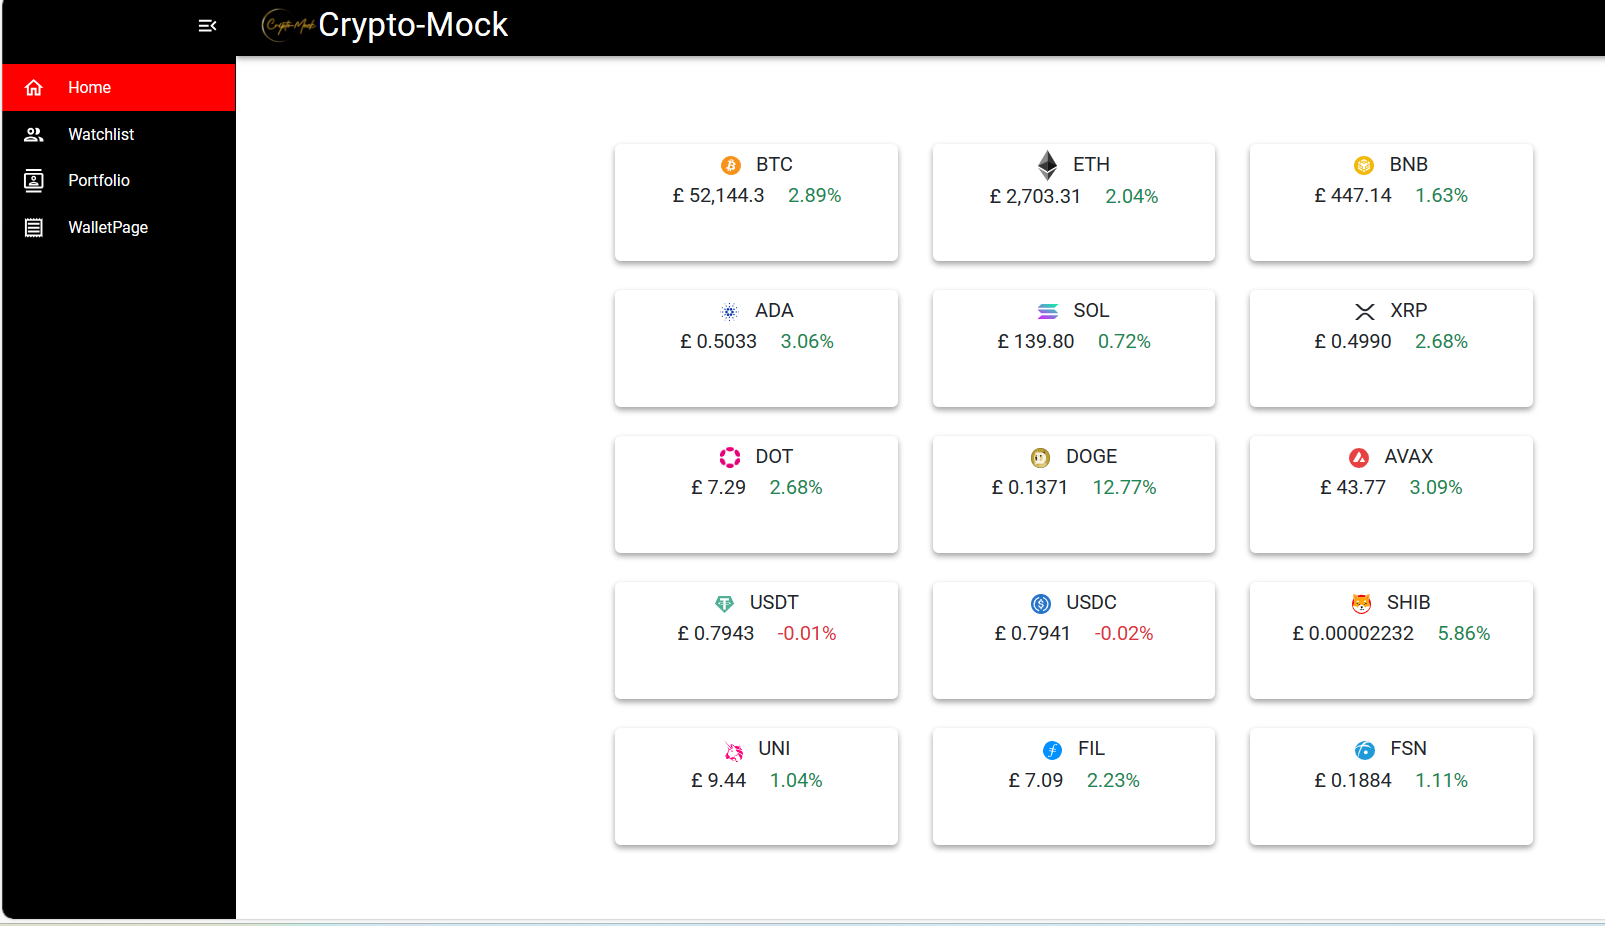
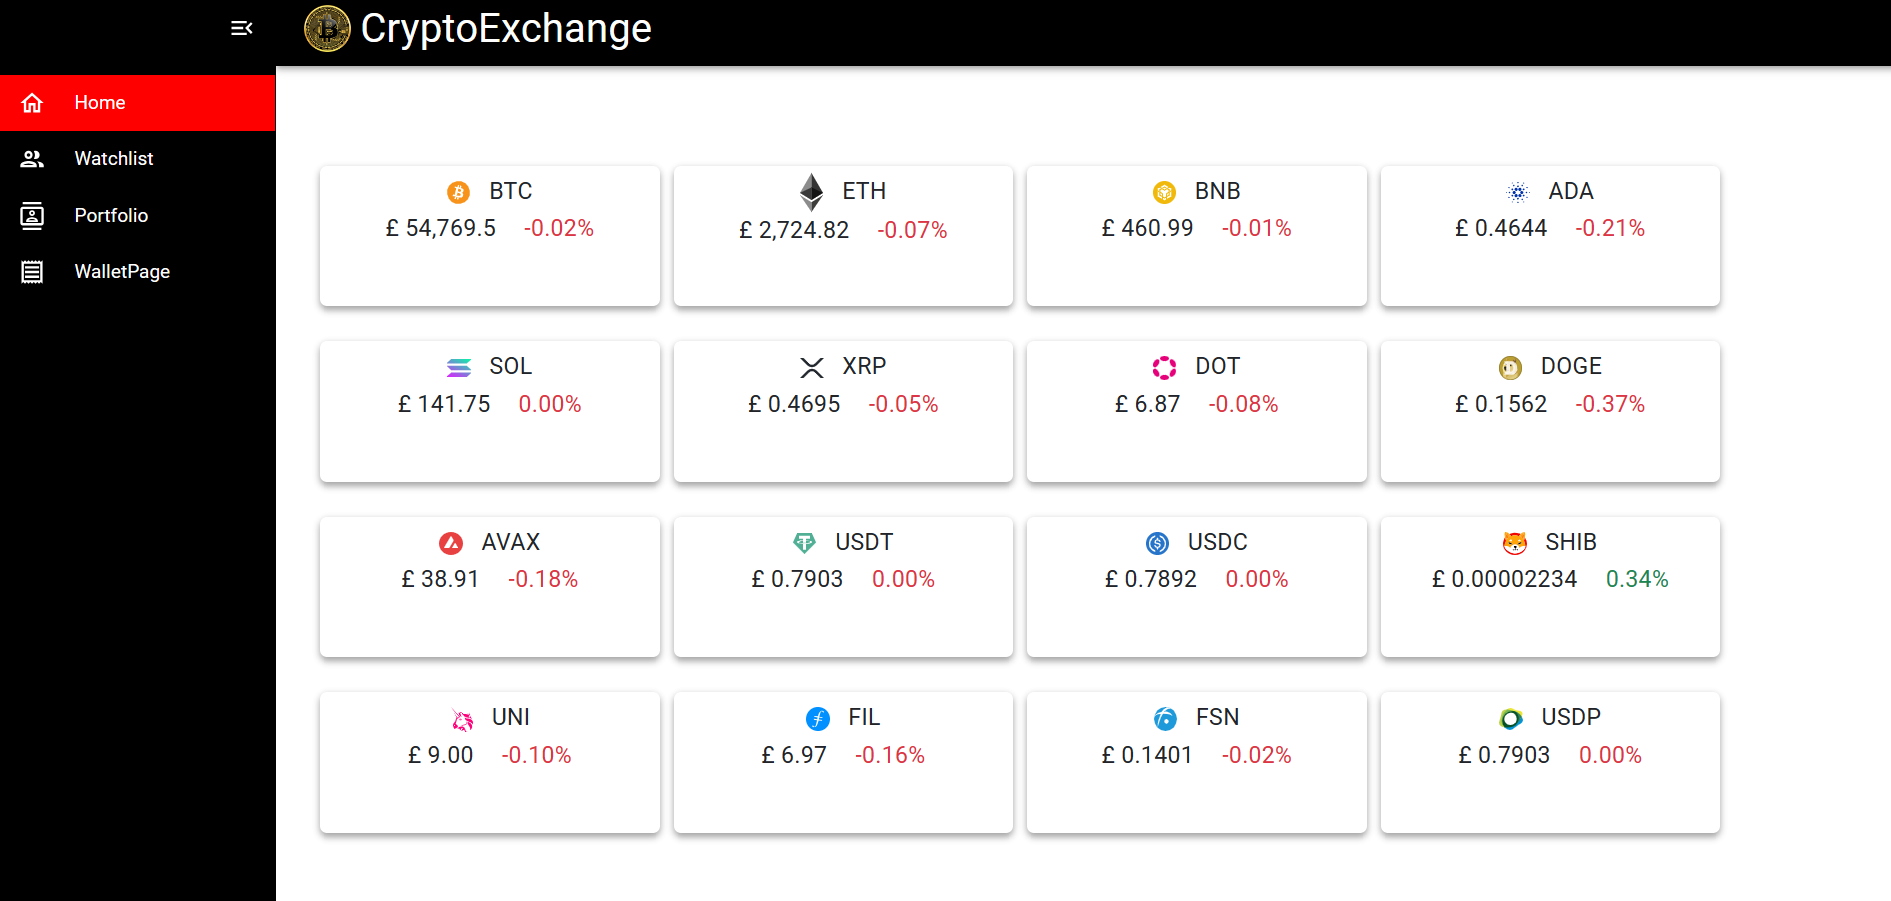
move fetch price to a seperate function

diff --git a/src/components/CryptoItem.jsx b/src/components/CryptoItem.jsx
@@ -1,23 +1,68 @@
 import Logo from "./Logo";
 import Price from "./Price";
-import { useState } from "react";
+import { useEffect, useState } from "react";
 import Button from "react-bootstrap/Button";
 import Modal from "react-bootstrap/Modal";
+import FetchPriceData from "./FetchPriceData";
+import { Pause } from "@mui/icons-material";
 
 function CryptoItem(props) {
+
+  const initialFund =
+    localStorage.getItem("fund") != null &&
+    localStorage.getItem("fund") != "undefined"
+      ? JSON.parse(localStorage.getItem("fund"))
+      : 0;
+
+      const purchasedCoins =
+      localStorage.getItem("purchasedCoins") != null &&
+      localStorage.getItem("purchasedCoins") != "undefined"
+        ? JSON.parse(localStorage.getItem("purchasedCoins"))
+        : [{}];
+  
+    const [portfolio, setPortfolio] = useState(purchasedCoins);
+  
+   
+
   const [itemToBuy, setItemToBuy] = useState();
   const [show, setShow] = useState(false);
+  const [numberToBuy, setNumberToBuy] = useState();
+  const [fund, setFund] = useState(initialFund);
 
   const handleClose = () => setShow(false);
+  
   const handleShow = (event) => {
     setItemToBuy(event.target.name);
-
     setShow(true);
   };
 
+  const handleChange = (event) => {
+    setNumberToBuy(event.target.value);
+    
+  }
+
+  const handleBuy = () =>{
+    const { data, error, isLoading } = FetchPriceData(props.abr);
+    while(error || isLoading){
+    Pause(1000);
+    }
+    const price = data.DISPLAY[props.abr].GBP.PRICE;
+    if(price*numberToBuy>fund){
+      alert("Fund is not enough!");
+    } else{
+      setFund(fund-price*numberToBuy);
+      // props.handleBuy();
+      setPortfolio({ ...portfolio, [itemToBuy]: true });
+    }
+  }
+
+  useEffect(()=>{
+    
+  })
+
   return (
     <>
-      <div className="container-fluid d-flex flex-row w-100 border rounded-3 p-3 m-3 border-black bg-light border-2 align-items-center">
+      <div className="container-fluid d-flex flex-row w-100 watchlist watch border rounded-3 p-3 align-items-center">
         <div className="col-3">
           <Logo name={props.name} abr={props.abr} size={props.size} />
         </div>
@@ -27,7 +72,12 @@ function CryptoItem(props) {
         </div>
 
         <div className="col-2">
-          <Button variant="primary" name={props.abr} onClick={handleShow}>
+          <Button
+            variant="primary"
+            name={props.abr}
+            onClick={handleShow}
+            className="btn btn-dark w-75 p-0 pt-2 pb-2"
+          >
             Buy
           </Button>
 
@@ -38,16 +88,20 @@ function CryptoItem(props) {
             <Modal.Body>
               <input
                 className="form-control form-control-lg"
-                type="text"
+                type="number"
                 placeholder="Please enter the number of coins to buy"
+                value={numberToBuy}
+                onChange={handleChange}
               ></input>
             </Modal.Body>
+            <div className="d-flex justify-content-center">Available fund: £{fund}</div>
             <Modal.Footer>
+              
               <Button variant="secondary" onClick={handleClose}>
                 Close
               </Button>
-              <Button variant="primary" onClick={props.handleBuy}>
-                Save
+              <Button variant="primary" onClick={handleBuy}>
+                Confirm
               </Button>
             </Modal.Footer>
           </Modal>

diff --git a/src/components/WatchlistComponent/RenderItems.jsx b/src/components/WatchlistComponent/RenderItems.jsx
@@ -1,28 +1,16 @@
 import CryptoItem from "../CryptoItem";
 import crypto from "../../data/crypto.json";
-import { useEffect, useState } from "react";
+import { useState } from "react";
 
 function RenderItems(props) {
-  const purchasedCoins =
-    localStorage.getItem("purchasedCoins") != null &&
-    localStorage.getItem("purchasedCoins") != "undefined"
-      ? JSON.parse(localStorage.getItem("purchasedCoins"))
-      : [{}];
-
-  ////moved from crypto
-  // const list= JSON.parse(localStorage.getItem("cryptoList"));
-  const [portfolio, setPortfolio] = useState(purchasedCoins);
-
-  const handleBuy = (event) => {
-    setPortfolio({ ...portfolio, [event.target.name]: true });
-  };
+  
 
   const findName = (element) =>
     crypto.find((e) => e.abbreviation == element).name;
   const findId = (element) => crypto.find((e) => e.abbreviation == element).id;
 
   return (
-    <>
+    
       <h4>
         {props.selected.map((element) => (
           <CryptoItem
@@ -31,11 +19,11 @@ function RenderItems(props) {
             size="40px"
             key={findId(element)}
             handleRemove={props.handleRemove}
-            handleBuy={handleBuy}
+            // handleBuy={handleBuy}
           />
         ))}
       </h4>
-    </>
+    
   );
 }
 

diff --git a/src/components/WatchlistComponent/index.jsx b/src/components/WatchlistComponent/index.jsx
@@ -58,14 +58,14 @@ function WatchList() {
   return (
     <>
       {/* Header */}
-      <div className="container-fluid d-flex flex-row w-75 pb-0 m-3 mb-0 align-items-center">
+      <div className="container-fluid d-flex flex-row w-100 pb-0 mt-4 ms-5 ps-5 align-items-center">
         <div className="col-3">
-          <p className="mb-0 fs-5 ">Market</p>
+          <p className="mb-0 fs-5">Market</p>
         </div>
 
         <div className="col-5 fs-5">
           <p className="mb-0 ms-5">
-            Price<span className="ms-4">Change 1D</span>
+            Price<span className="ms-5 ps-4">Change 1D</span>
           </p>
         </div>
 
@@ -121,7 +121,7 @@ function WatchList() {
           </Modal>
         </div>
       </div>
-      <RenderItems selected={selected} handleRemove={handleRemove} />
+      <RenderItems selected={selected} handleRemove={handleRemove}/>
     </>
   );
 }

diff --git a/src/components/Price.jsx b/src/components/Price.jsx
@@ -1,25 +1,11 @@
-import useSWR from "swr";
+import FetchPriceData from "./FetchPriceData";
 
 function Price(props) {
-  const fetcher = (...args) =>
-    fetch(new Request(...args), {
-      method: "GET",
-      headers: new Headers({
-        "content-type": "application/json",
-        authorization:
[1 lines of base64/hex data omitted]
-      }),
-    }).then(function (response) {
-      return response.json();
-    });
+  
 
   // Implements useSWR
-  const { data, error, isLoading } = useSWR(
-    `https://min-api.cryptocompare.com/data/pricemultifull?fsyms=${props.abr}&tsyms=GBP`,
-    fetcher,
-    { refreshInterval: 1000000 }
-  );
-  console.log(data);
+  const { data, error, isLoading } = FetchPriceData(props.abr);
+
   return (
     <div>
       {error ? (

diff --git a/src/components/FetchPriceData.jsx b/src/components/FetchPriceData.jsx
@@ -1,0 +1,30 @@
+import useSWR from "swr";
+
+function FetchPriceData(abr) {
+  const fetcher = (...args) =>
+    fetch(new Request(...args), {
+      method: "GET",
+      headers: new Headers({
+        "content-type": "application/json",
+        authorization:
[1 lines of base64/hex data omitted]
+      }),
+    }).then(function (response) {
+      return response.json();
+    });
+
+  // Implements useSWR
+  const { data, error, isLoading } = useSWR(
+    `https://min-api.cryptocompare.com/data/pricemultifull?fsyms=${abr}&tsyms=GBP`,
+    fetcher,
+    { refreshInterval: 1000000 }
+  );
+
+  return {
+    data: data,
+    isLoading: isLoading,
+    error: error
+  }
+}
+
+export default FetchPriceData;

diff --git a/src/components/Navbar.jsx b/src/components/Navbar.jsx
@@ -161,9 +161,9 @@ export default function Navbar() {
             >
               <MenuIcon />
             </IconButton>
-            <Box component="img" sx={{ height: 60 }} alt="Logo" src={logo} />
+            <Box component="img" sx={{ height: 40 }} alt="Logo" src={logo} className="me-2"/>
             <Typography variant="h4" noWrap component="div">
-              Crypto-Mock
+              CryptoExchange
             </Typography>
           </Toolbar>
         </AppBar>

diff --git a/src/App.css b/src/App.css
@@ -1,5 +1,5 @@
 #root {
-  max-width: 1280px;
+  width: 100%;
   margin: 0 auto;
   padding: 2rem;
   text-align: center;
@@ -17,8 +17,11 @@
   padding:2rem !important; 
 }
 
-.m-3{
-  margin:4rem 12rem 4rem 9rem !important;
+.watchlist {
+  height: 120px;
+  margin: 1rem 24rem 2rem 4rem;
+  box-shadow: 0 3px 6px rgba(0,0,0,0.16), 0 3px 6px rgba(0,0,0,0.23);
+  border: 6px solid white;
 }
 
 .css-2ulfj5-MuiTypography-root{
